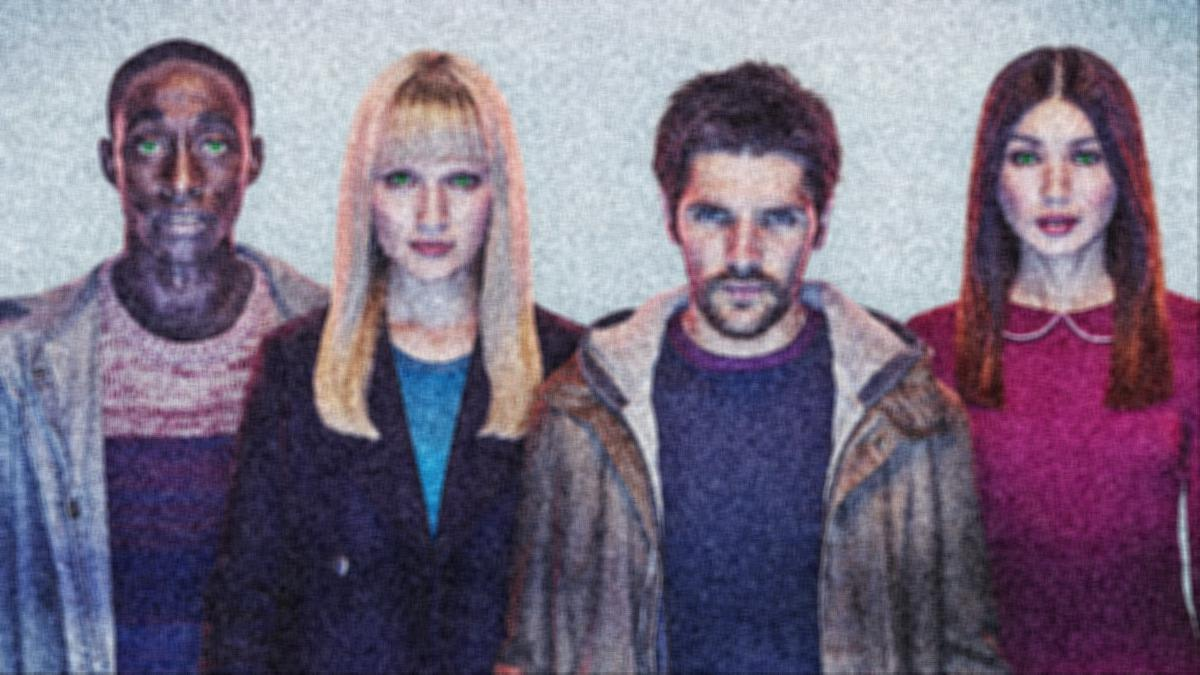
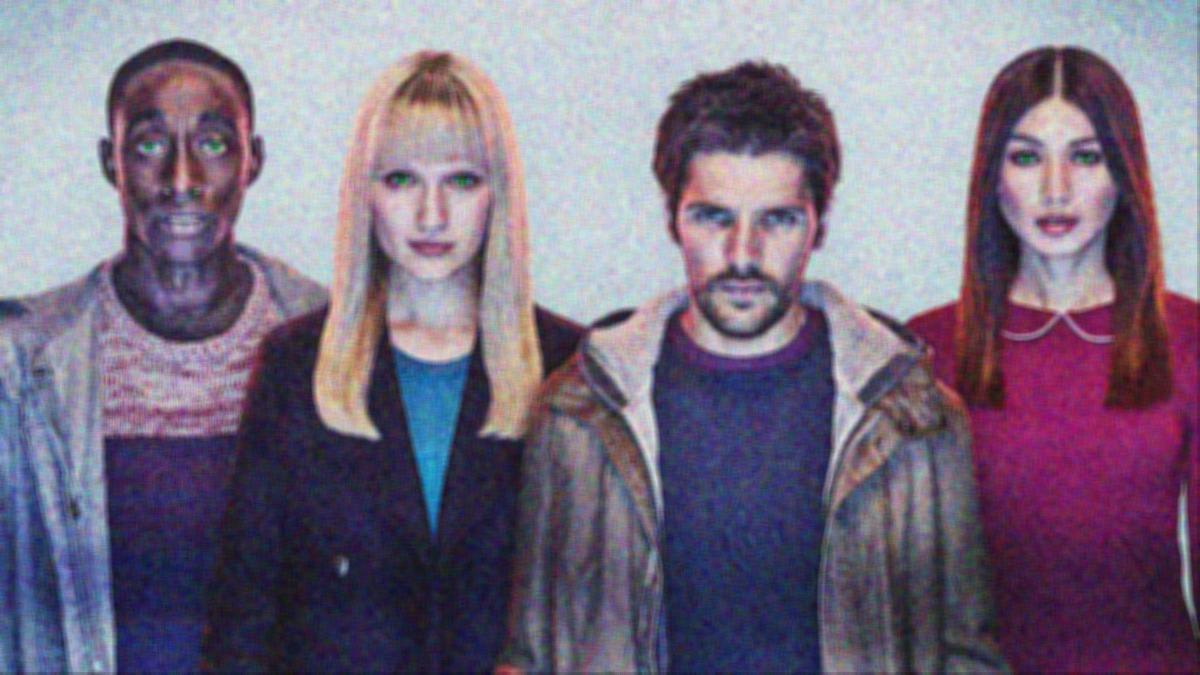
Added multiple noise modes

diff --git a/lib/noise.go b/lib/noise.go
@@ -1,7 +1,6 @@
 package lib
 
 import (
-    "fmt"
     "math/rand"
     "time"
     "image"
@@ -11,13 +10,64 @@ import (
     interp "./interpolation"
 )
 
+const (
+    SALT_AND_PEPPER = 0
+    DIGITAL_NOISE = 1
+)
+
+type NoiseGenerator func (col color.Color, rand_gen *rand.Rand) (uint32, uint32, uint32, uint32)
+
+/**
+    Returns the color channels of the noised pixel
+*/
+func get_noise(col color.Color, rand_gen *rand.Rand, noiseFunc NoiseGenerator) (uint32, uint32, uint32, uint32)  {
+    return noiseFunc(col, rand_gen)
+}
+
+
 /**
     Apply the median filter on each pixel of the image img in
     the assigned area defined by the mask in the given radius.
 */
-func Noise(img image.Image, mask image.Image, strength int) (image.Image) {
+func Noise(img image.Image, mask image.Image, mode, strength int) (image.Image) {
     bounds := img.Bounds()
     ret := Copy(img)
+
+    var noiseFunc NoiseGenerator
+    switch mode {
+        case SALT_AND_PEPPER:
+            noiseFunc = func (col color.Color, rand_gen *rand.Rand) (uint32, uint32, uint32, uint32) {
+                r, g, b, a := col.RGBA()
+
+                num := rand_gen.Intn(2 * strength) - strength
+
+                r = uint32(utils.Clamp(0, (256 << 8) - 1, int32(r) + int32(num << 8)))
+                g = uint32(utils.Clamp(0, (256 << 8) - 1, int32(g) + int32(num << 8)))
+                b = uint32(utils.Clamp(0, (256 << 8) - 1, int32(b) + int32(num << 8)))
+                a = uint32(utils.Clamp(0, (256 << 8) - 1, int32(a) + int32(num << 8)))
+
+                return r, g, b, a
+            }
+            break
+
+        case DIGITAL_NOISE:
+            noiseFunc = func (col color.Color, rand_gen *rand.Rand) (uint32, uint32, uint32, uint32) {
+                r, g, b, a := col.RGBA()
+
+                r = uint32(utils.Clamp(0, (256 << 8) - 1, int32(r) + int32((rand_gen.Intn(2 * strength) - strength) * 255)))
+                g = uint32(utils.Clamp(0, (256 << 8) - 1, int32(g) + int32((rand_gen.Intn(2 * strength) - strength) * 255)))
+                b = uint32(utils.Clamp(0, (256 << 8) - 1, int32(b) + int32((rand_gen.Intn(2 * strength) - strength) * 255)))
+                a = uint32(utils.Clamp(0, (256 << 8) - 1, int32(a) + int32((rand_gen.Intn(2 * strength) - strength) * 255)))
+
+                return r, g, b, a
+            }
+            break
+
+        default:
+            noiseFunc = func (col color.Color, rand_gen *rand.Rand) (uint32, uint32, uint32, uint32) {
+                return col.RGBA()
+            }
+    }
 
     n := 10
     done := make(chan bool, n)
@@ -31,16 +81,7 @@ func Noise(img image.Image, mask image.Image, strength int) (image.Image) {
 
             for y := bounds.Min.Y + rank; y <= bounds.Max.Y; y += n {
                 for x := bounds.Min.X; x <= bounds.Max.X; x ++ {
-                    r, g, b, a := img.At(x, y).RGBA()
-
-                    num := rand_gen.Intn(2 * strength) - strength
-                    // fmt.Println(num)
-                    fmt.Print()
-
-                    r = uint32(utils.Clamp(0, (256 << 8) - 1, int32(r) + int32(num << 8)))
-                    g = uint32(utils.Clamp(0, (256 << 8) - 1, int32(g) + int32(num << 8)))
-                    b = uint32(utils.Clamp(0, (256 << 8) - 1, int32(b) + int32(num << 8)))
-                    a = uint32(utils.Clamp(0, (256 << 8) - 1, int32(a) + int32(num << 8)))
+                    r, g, b, a := get_noise(img.At(x, y), rand_gen, noiseFunc)
 
                     r_aux, g_aux, b_aux, a_aux := ret.At(x, y).RGBA()
                     r_mask, g_mask, b_mask, a_mask := mask.At(x, y).RGBA()

diff --git a/handler.go b/handler.go
@@ -40,7 +40,7 @@ func main() {
     // card = lib.Apply_filter(card, area, lib.Filter{ [][]float64{{-1, -1, -1}, {-1, 8, -1}, {-1, -1, -1}}}, 1)
 
     //card = lib.Modify_colors(card, area, lib.Modifier{[4][4]float64{{0, 1, 0, 0}, {0, 0, 1, 0}, {1, 0, 0, 0}, {0, 0, 0, 1}}, [4]float64{0, 0, 0, 0}})
-    card = lib.Noise(card, area, 100)
+    card = lib.Noise(card, area, lib.DIGITAL_NOISE, 100)
     card = lib.Median(card, area, 3)
     /* f := */filters.BoxBlur(10)
 
